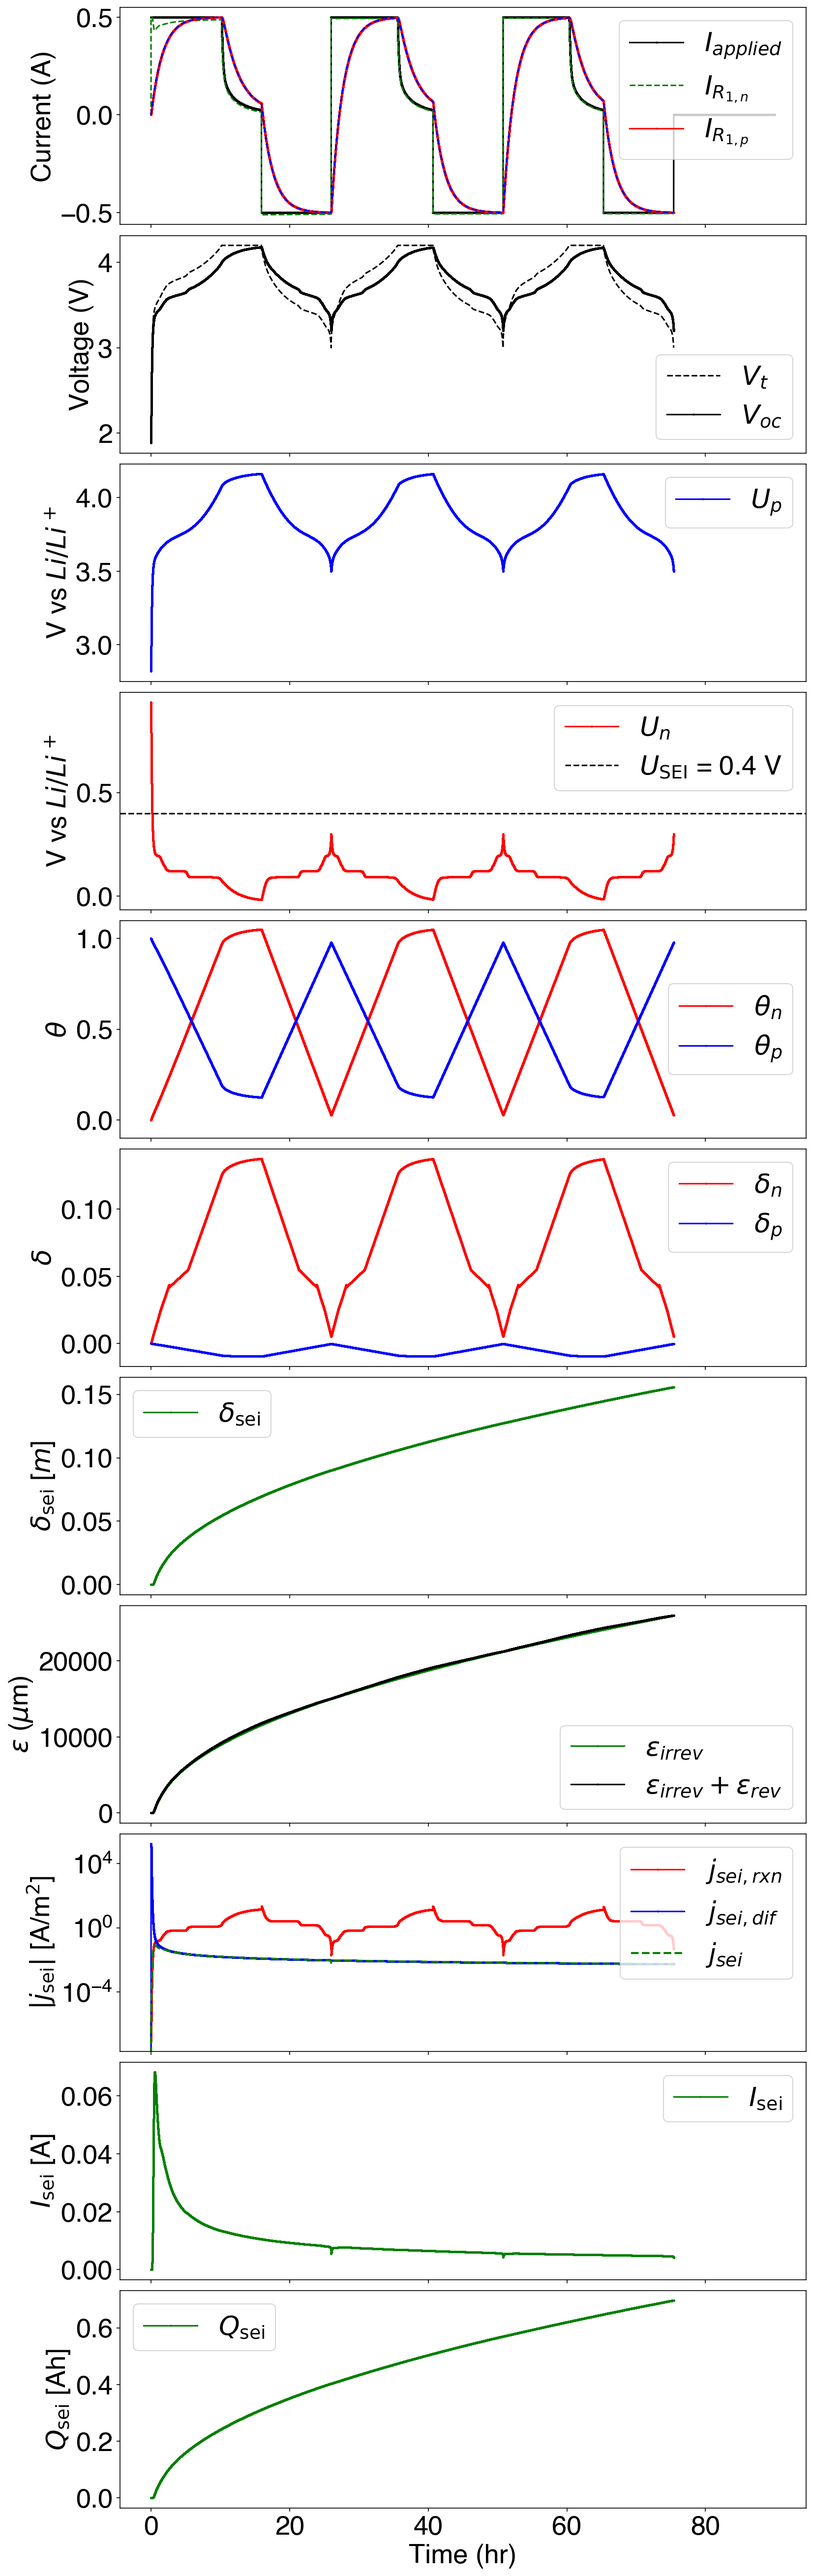
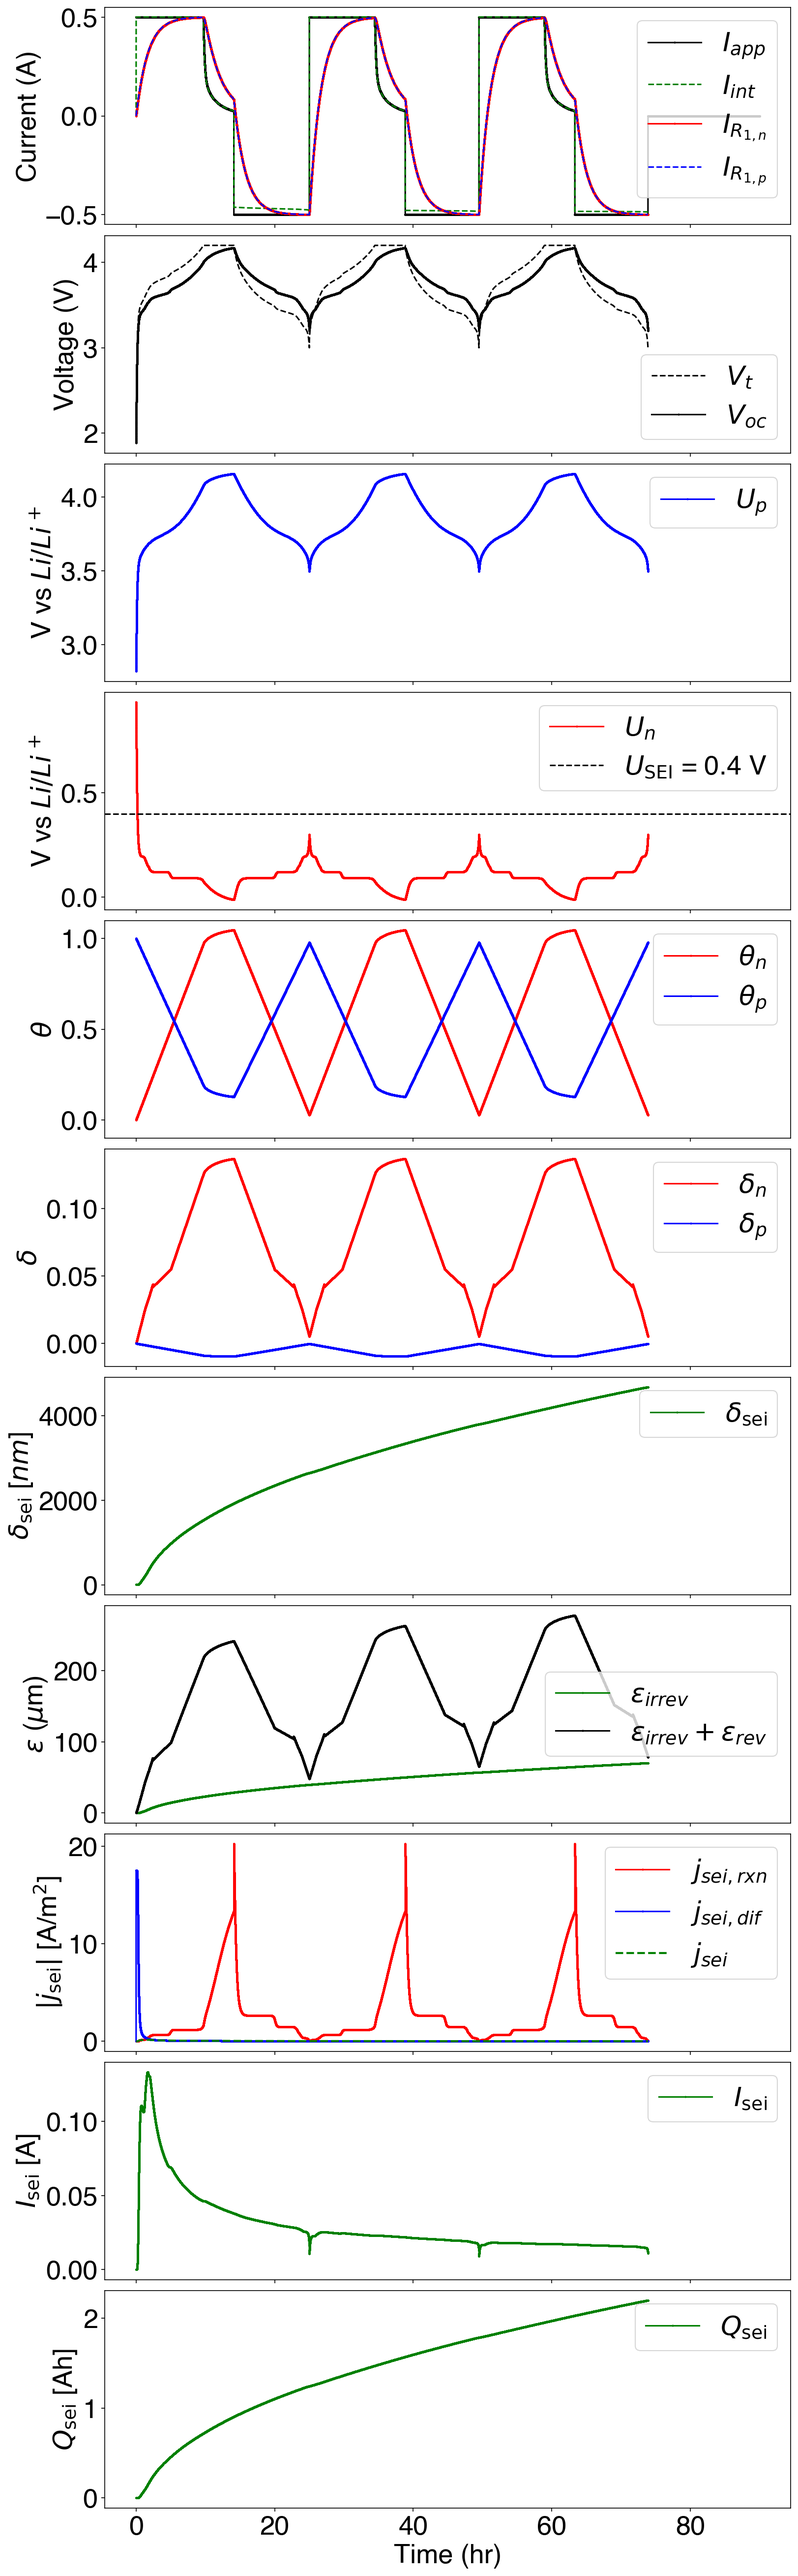
WIP; fixed units and sign on total current

diff --git a/src/cellsim.py b/src/cellsim.py
@@ -35,7 +35,7 @@ class Cell:
         self.V_sei       = 9.585e-5   # m3/mol     SEI molar volume
         self.L_n         = 80e-6      # m          Negative electrode thickness
         self.k_SEI       = 1e-11      # m/s        SEI kinetic rate constant
-        self.D_SEI       = 2e-12      # m2/s       SEI layer diffusivity
+        self.D_SEI       = 2e-16      # m2/s       SEI layer diffusivity
         self.R_n         = 20e-6      # m          Anode particle radius
         self.epsilon_n   = 0.7        # [-]        Anode solid material fraction
         self.a_SEI       = 3 * self.epsilon_n / self.R_n # 1/m   Anode specific surface area
@@ -43,7 +43,7 @@ class Cell:
         self.U_SEI       = 0.4        # V          SEI equilibrium reaction potential
 
         # Expansion parameters
-        self.c0 = 1/6
+        self.c0 = 15
         self.c1 = 1/600
         self.c2 = 1/600
 
@@ -196,7 +196,8 @@ class Simulation:
 
         # Update the intercalation current for the next time step
         # Stoichiometry update; only include intercalation current
-        self.i_int[k+1] = self.i_app[k] - self.i_sei[k]
+        sign = self.i_app[k] < 0
+        self.i_int[k+1] = self.i_app[k] + sign*self.i_sei[k]
 
         # Integrate SEI current to get SEI capacity
         self.q_sei[k+1] = self.q_sei[k] + self.i_sei[k+1] * self.dt / 3600
@@ -264,9 +265,9 @@ class Simulation:
         axs[5].plot(self.t/3600, self.delta_p, color='b', marker='o', ms=1)
         axs[5].legend([r'$\delta_n$', r'$\delta_p$'])
 
-        axs[6].plot(self.t/3600, self.delta_sei, color='g', marker='o', ms=1)
+        axs[6].plot(self.t/3600, self.delta_sei * 1e9, color='g', marker='o', ms=1)
         axs[6].legend([r'$\delta_{\mathrm{sei}}$'])
-        axs[6].set_ylabel(r'$\delta_{\mathrm{sei}}$ [$m$]')
+        axs[6].set_ylabel(r'$\delta_{\mathrm{sei}}$ [$nm$]')
 
         axs[7].set_ylabel(r'$\epsilon$ ($\mu$m)')
         axs[7].plot(self.t/3600, self.expansion_irrev*1e6, color='g', marker='o', ms=1, label='$\epsilon_{irrev}$')
@@ -274,7 +275,7 @@ class Simulation:
                     color='k', marker='o', ms=1, label='$\epsilon_{irrev} + \epsilon_{rev}$')
         axs[7].legend()
 
-        axs[8].set_yscale('log')
+        # axs[8].set_yscale('log')
         axs[8].plot(self.t/3600, self.j_sei_rxn, color='r', marker='o', ms=1, label='$j_{sei,rxn}$')
         axs[8].plot(self.t/3600, self.j_sei_dif, color='b', marker='o', ms=1, label='$j_{sei,dif}$')
         axs[8].plot(self.t/3600, np.abs(self.j_sei), color='g', ls='--', lw=2, label='$j_{sei}$')
